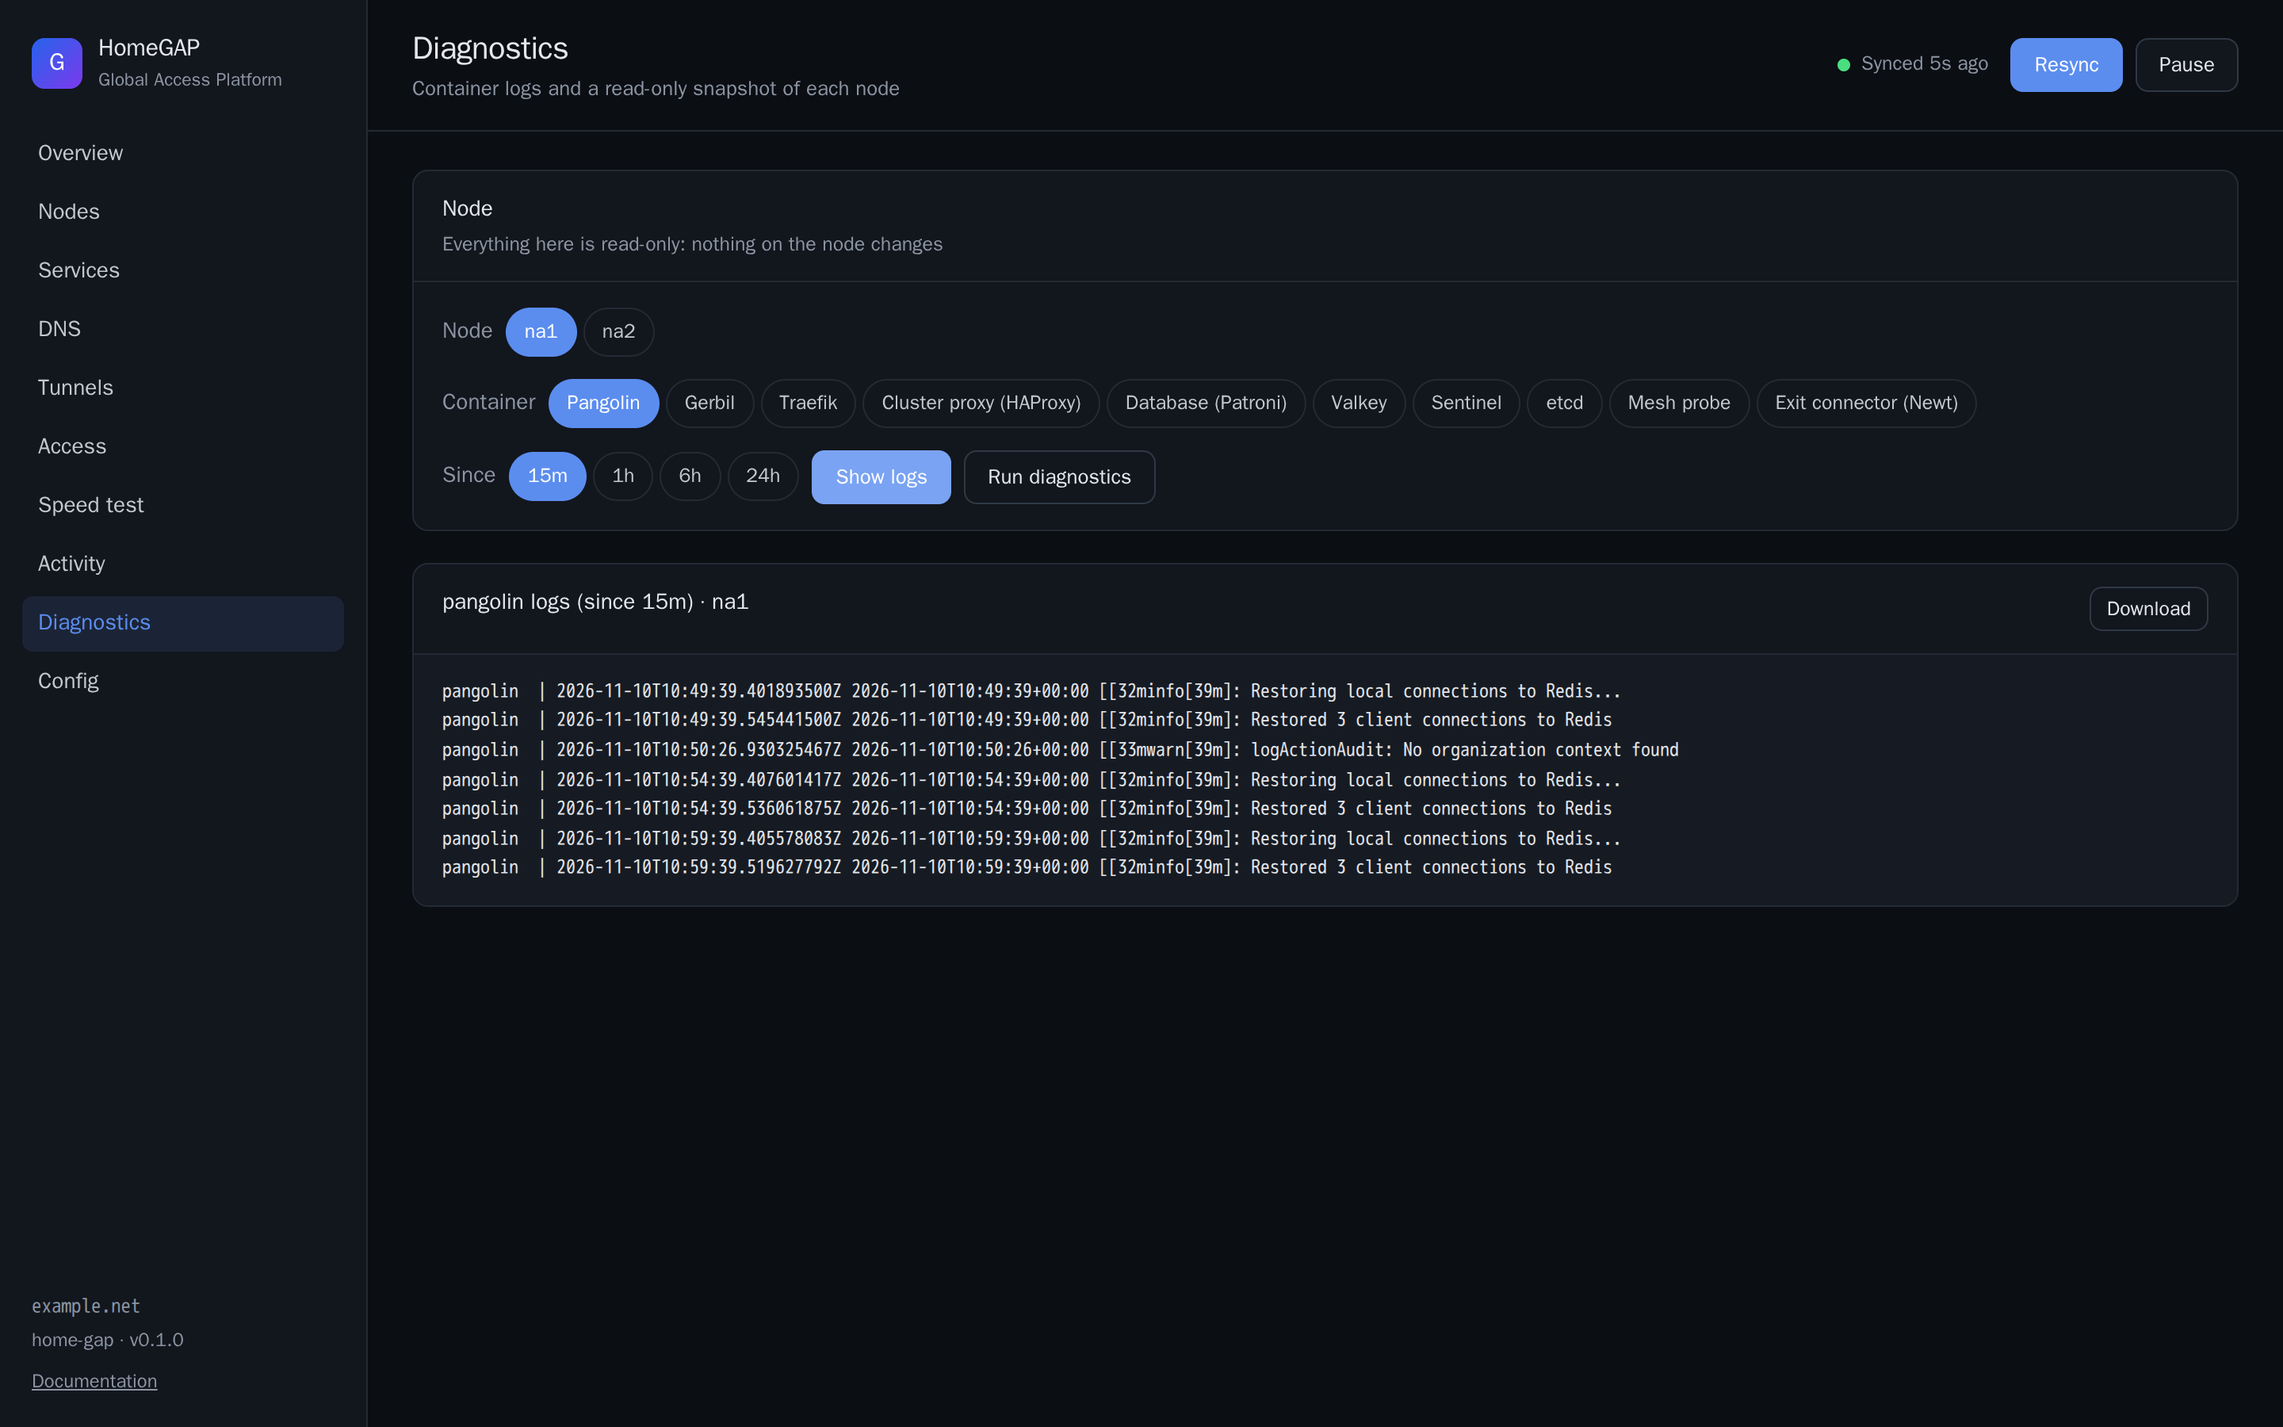
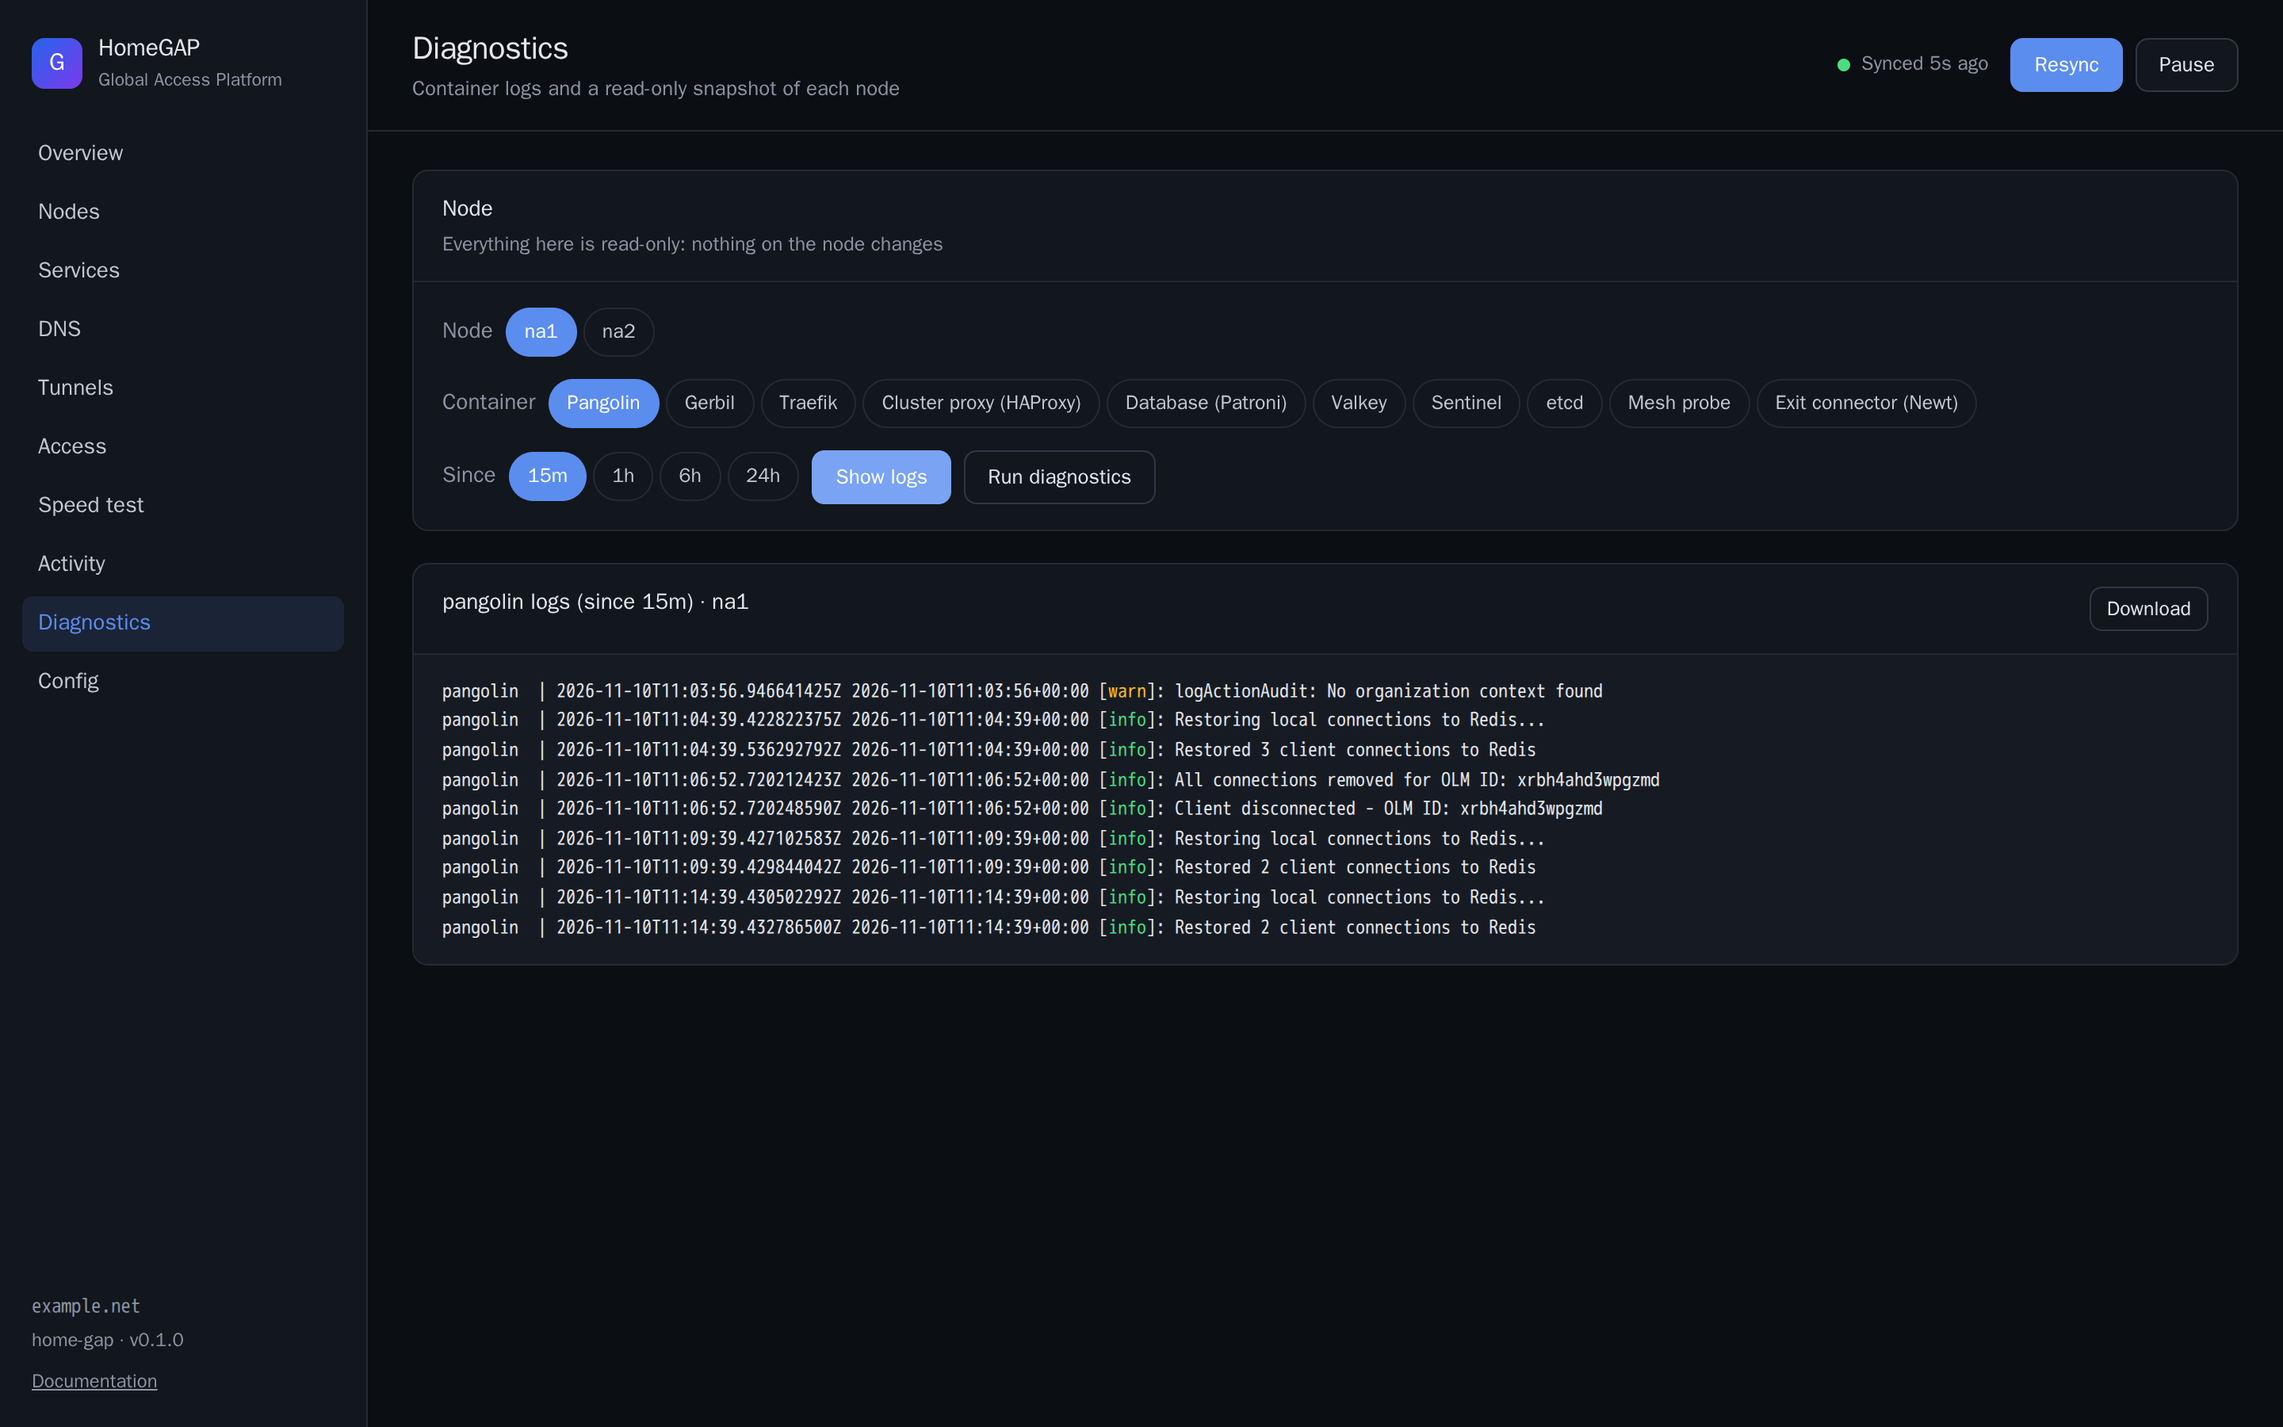
Show the terminal colours in node container logs
Container logs carry the colour codes the programs print for a terminal,
and the Diagnostics page showed them as text ([32minfo[39m). The page
now draws colours and text styles from the theme's own palette and drops
other escape sequences; Download saves plain text.

Changed region(s): [[0.1875, 0.4667, 0.7188, 0.6533], [0.4062, 0.56, 0.4375, 0.5911], [0.4062, 0.4978, 0.4375, 0.5289]]

diff --git a/presentation/src/commonMain/kotlin/homegap/presentation/diagnostics/AnsiText.kt b/presentation/src/commonMain/kotlin/homegap/presentation/diagnostics/AnsiText.kt
@@ -1,0 +1,130 @@
+package homegap.presentation.diagnostics
+
+/** A terminal colour: one of the 16 theme colours, or an exact one (256-colour cube or 24-bit). */
+sealed interface AnsiColor {
+    /** 0-7 normal, 8-15 bright; drawn with the dashboard's own palette for the theme. */
+    data class Indexed(val index: Int) : AnsiColor
+
+    data class Rgb(val r: Int, val g: Int, val b: Int) : AnsiColor {
+        val css: String get() = "rgb($r, $g, $b)"
+    }
+}
+
+/** A run of text with the terminal style in effect for it. */
+data class StyledRun(
+    val text: String,
+    val fg: AnsiColor? = null,
+    val bg: AnsiColor? = null,
+    val bold: Boolean = false,
+    val dim: Boolean = false,
+    val italic: Boolean = false,
+    val underline: Boolean = false,
+) {
+    val plain: Boolean get() = fg == null && bg == null && !bold && !dim && !italic && !underline
+}
+
+/**
+ * Container logs carry the colours the programs print for a terminal (ANSI escape sequences).
+ * [parse] turns them into styled runs for the dashboard; [plain] drops them, for downloads. Only
+ * colours and text styles (SGR) are kept: cursor moves, titles and other sequences mean nothing in
+ * a page and are dropped, as are other control characters.
+ */
+object AnsiText {
+    private const val ESC = '\u001B'
+
+    fun plain(text: String): String = parse(text).joinToString("") { it.text }
+
+    fun parse(text: String): List<StyledRun> {
+        val runs = mutableListOf<StyledRun>()
+        var style = StyledRun("")
+        val buf = StringBuilder()
+        fun flush() {
+            if (buf.isEmpty()) return
+            val run = style.copy(text = buf.toString())
+            val last = runs.lastOrNull()
+            if (last != null && last.copy(text = "") == style) runs[runs.size - 1] = last.copy(text = last.text + run.text) else runs += run
+            buf.clear()
+        }
+
+        var i = 0
+        while (i < text.length) {
+            val c = text[i]
+            when {
+                c == ESC && i + 1 < text.length && text[i + 1] == '[' -> {
+                    // CSI: parameters and intermediates, then one final byte (@ to ~).
+                    var j = i + 2
+                    while (j < text.length && text[j] in ' '..'?') j++
+                    if (j >= text.length) { i = text.length; continue }
+                    if (text[j] == 'm') {
+                        flush()
+                        style = sgr(style, text.substring(i + 2, j))
+                    }
+                    i = j + 1
+                }
+                c == ESC && i + 1 < text.length && text[i + 1] == ']' -> {
+                    // OSC (titles, links): up to BEL or ESC \.
+                    var j = i + 2
+                    while (j < text.length && text[j] != '\u0007' && !(text[j] == ESC && j + 1 < text.length && text[j + 1] == '\\')) j++
+                    i = if (j < text.length && text[j] == ESC) j + 2 else j + 1
+                }
+                c == ESC -> i += 2 // any other escape: ESC and one character
+                c == '\n' || c == '\t' -> { buf.append(c); i++ }
+                c < ' ' || c == '\u007F' -> i++ // other control characters (\r, bells, ...)
+                else -> { buf.append(c); i++ }
+            }
+        }
+        flush()
+        return runs
+    }
+
+    /** Applies one SGR sequence (the parameters between `ESC [` and `m`). */
+    private fun sgr(from: StyledRun, params: String): StyledRun {
+        val codes = if (params.isBlank()) listOf(0) else params.split(';', ':').map { it.toIntOrNull() ?: 0 }
+        var s = from
+        var k = 0
+        while (k < codes.size) {
+            when (val code = codes[k]) {
+                0 -> s = StyledRun("")
+                1 -> s = s.copy(bold = true)
+                2 -> s = s.copy(dim = true)
+                3 -> s = s.copy(italic = true)
+                4 -> s = s.copy(underline = true)
+                22 -> s = s.copy(bold = false, dim = false)
+                23 -> s = s.copy(italic = false)
+                24 -> s = s.copy(underline = false)
+                in 30..37 -> s = s.copy(fg = AnsiColor.Indexed(code - 30))
+                in 90..97 -> s = s.copy(fg = AnsiColor.Indexed(code - 90 + 8))
+                39 -> s = s.copy(fg = null)
+                in 40..47 -> s = s.copy(bg = AnsiColor.Indexed(code - 40))
+                in 100..107 -> s = s.copy(bg = AnsiColor.Indexed(code - 100 + 8))
+                49 -> s = s.copy(bg = null)
+                38, 48 -> {
+                    // 38;5;n or 38;2;r;g;b (and 48 for the background).
+                    val (color, used) = extended(codes, k + 1)
+                    s = if (code == 38) s.copy(fg = color) else s.copy(bg = color)
+                    k += used
+                }
+            }
+            k++
+        }
+        return s
+    }
+
+    private fun extended(codes: List<Int>, at: Int): Pair<AnsiColor?, Int> = when (codes.getOrNull(at)) {
+        5 -> codes.getOrNull(at + 1)?.let { indexed(it) to 2 } ?: (null to 1)
+        2 -> if (at + 3 < codes.size) AnsiColor.Rgb(codes[at + 1].coerceIn(0, 255), codes[at + 2].coerceIn(0, 255), codes[at + 3].coerceIn(0, 255)) to 4 else null to codes.size - at
+        else -> null to 0
+    }
+
+    /** The xterm 256-colour palette: 16 theme colours, a 6x6x6 cube and a grey ramp. */
+    private fun indexed(n: Int): AnsiColor? = when (n) {
+        in 0..15 -> AnsiColor.Indexed(n)
+        in 16..231 -> {
+            val v = n - 16
+            fun level(x: Int) = if (x == 0) 0 else 55 + x * 40
+            AnsiColor.Rgb(level(v / 36), level(v / 6 % 6), level(v % 6))
+        }
+        in 232..255 -> (8 + (n - 232) * 10).let { AnsiColor.Rgb(it, it, it) }
+        else -> null
+    }
+}

diff --git a/web/src/jsMain/resources/styles.css b/web/src/jsMain/resources/styles.css
@@ -21,6 +21,11 @@
   --sidebar: 232px;
   --sans: "Inter", ui-sans-serif, system-ui, -apple-system, "Segoe UI", Roboto, sans-serif;
   --mono: ui-monospace, SFMono-Regular, "SF Mono", Menlo, Consolas, monospace;
+  /* Terminal colours in container logs (ANSI 0-15), readable on this theme's surfaces. */
+  --ansi-0: #1f2937;  --ansi-1: #c62828;  --ansi-2: #15803d;  --ansi-3: #a16207;
+  --ansi-4: #1d4ed8;  --ansi-5: #a21caf;  --ansi-6: #0e7490;  --ansi-7: #6b7280;
+  --ansi-8: #4b5563;  --ansi-9: #dc2626;  --ansi-10: #16a34a; --ansi-11: #ca8a04;
+  --ansi-12: #2563eb; --ansi-13: #c026d3; --ansi-14: #0891b2; --ansi-15: #374151;
   color-scheme: light;
 }
 @media (prefers-color-scheme: dark) {
@@ -42,6 +47,10 @@
     --unknown: #9ca3af; --unknown-soft: rgba(156, 163, 175, .10);
     --shadow: none;
     --shadow-lg: 0 10px 30px rgba(0, 0, 0, .5);
+    --ansi-0: #6b7280;  --ansi-1: #f87171;  --ansi-2: #4ade80;  --ansi-3: #fbbf24;
+    --ansi-4: #60a5fa;  --ansi-5: #e879f9;  --ansi-6: #22d3ee;  --ansi-7: #d1d5db;
+    --ansi-8: #9ca3af;  --ansi-9: #fca5a5;  --ansi-10: #86efac; --ansi-11: #fde68a;
+    --ansi-12: #93c5fd; --ansi-13: #f0abfc; --ansi-14: #67e8f9; --ansi-15: #f9fafb;
     color-scheme: dark;
   }
 }
@@ -260,6 +269,27 @@ table.data tr.empty:hover td { background: none; }
 .empty-state { color: var(--muted); text-align: center; padding: 28px; }
 
 pre { margin: 0; padding: 14px 18px; overflow: auto; font-family: var(--mono); font-size: 12px; line-height: 1.55; max-height: 560px; background: var(--surface-2); }
+/* Container logs: the programs' own terminal colours (see AnsiText). */
+.ansi-fg-0 { color: var(--ansi-0); } .ansi-bg-0 { background: var(--ansi-0); }
+.ansi-fg-1 { color: var(--ansi-1); } .ansi-bg-1 { background: var(--ansi-1); }
+.ansi-fg-2 { color: var(--ansi-2); } .ansi-bg-2 { background: var(--ansi-2); }
+.ansi-fg-3 { color: var(--ansi-3); } .ansi-bg-3 { background: var(--ansi-3); }
+.ansi-fg-4 { color: var(--ansi-4); } .ansi-bg-4 { background: var(--ansi-4); }
+.ansi-fg-5 { color: var(--ansi-5); } .ansi-bg-5 { background: var(--ansi-5); }
+.ansi-fg-6 { color: var(--ansi-6); } .ansi-bg-6 { background: var(--ansi-6); }
+.ansi-fg-7 { color: var(--ansi-7); } .ansi-bg-7 { background: var(--ansi-7); }
+.ansi-fg-8 { color: var(--ansi-8); } .ansi-bg-8 { background: var(--ansi-8); }
+.ansi-fg-9 { color: var(--ansi-9); } .ansi-bg-9 { background: var(--ansi-9); }
+.ansi-fg-10 { color: var(--ansi-10); } .ansi-bg-10 { background: var(--ansi-10); }
+.ansi-fg-11 { color: var(--ansi-11); } .ansi-bg-11 { background: var(--ansi-11); }
+.ansi-fg-12 { color: var(--ansi-12); } .ansi-bg-12 { background: var(--ansi-12); }
+.ansi-fg-13 { color: var(--ansi-13); } .ansi-bg-13 { background: var(--ansi-13); }
+.ansi-fg-14 { color: var(--ansi-14); } .ansi-bg-14 { background: var(--ansi-14); }
+.ansi-fg-15 { color: var(--ansi-15); } .ansi-bg-15 { background: var(--ansi-15); }
+.ansi-bold { font-weight: 600; }
+.ansi-dim { opacity: .7; }
+.ansi-italic { font-style: italic; }
+.ansi-underline { text-decoration: underline; }
 
 .toast {
   position: fixed; bottom: 20px; right: 20px; z-index: 20; max-width: 460px;

diff --git a/web/src/jsMain/kotlin/homegap/web/screens/DiagnosticsScreen.kt b/web/src/jsMain/kotlin/homegap/web/screens/DiagnosticsScreen.kt
@@ -1,6 +1,9 @@
 package homegap.web.screens
 
 import androidx.compose.runtime.Composable
+import androidx.compose.runtime.remember
+import homegap.presentation.diagnostics.AnsiColor
+import homegap.presentation.diagnostics.AnsiText
 import homegap.presentation.diagnostics.DiagnosticsScreenModel
 import homegap.web.ui.*
 import kotlinx.browser.document
@@ -9,7 +12,10 @@ import org.w3c.dom.url.URL
 import org.w3c.files.Blob
 import org.w3c.files.BlobPropertyBag
 import org.jetbrains.compose.web.dom.Div
+import org.jetbrains.compose.web.css.backgroundColor
+import org.jetbrains.compose.web.css.color
 import org.jetbrains.compose.web.dom.Pre
+import org.jetbrains.compose.web.dom.Span
 import org.jetbrains.compose.web.dom.Text
 
 @Composable
@@ -46,9 +52,35 @@ fun DiagnosticsScreen(model: DiagnosticsScreenModel) {
         Panel("Loading…") { Div({ classes("panel-body") }) { Muted("Asking the node over SSH.") } }
     } else if (output != null) {
         Panel("${output.title} · ${output.node}", actions = {
-            ActionButton("Download", small = true) { download("${output.node}-${output.title.substringBefore(' ').lowercase()}.txt", output.text) }
+            ActionButton("Download", small = true) { download("${output.node}-${output.title.substringBefore(' ').lowercase()}.txt", AnsiText.plain(output.text)) }
         }) {
-            Pre { Text(output.text) }
+            TerminalText(output.text)
+        }
+    }
+}
+
+/** Log text with the programs' own terminal colours; the text is only ever rendered as text. */
+@Composable
+private fun TerminalText(text: String) {
+    val runs = remember(text) { AnsiText.parse(text) }
+    Pre {
+        for (run in runs) {
+            if (run.plain) {
+                Text(run.text)
+                continue
+            }
+            Span({
+                (run.fg as? AnsiColor.Indexed)?.let { classes("ansi-fg-${it.index}") }
+                (run.bg as? AnsiColor.Indexed)?.let { classes("ansi-bg-${it.index}") }
+                if (run.bold) classes("ansi-bold")
+                if (run.dim) classes("ansi-dim")
+                if (run.italic) classes("ansi-italic")
+                if (run.underline) classes("ansi-underline")
+                style {
+                    (run.fg as? AnsiColor.Rgb)?.let { color(org.jetbrains.compose.web.css.Color(it.css)) }
+                    (run.bg as? AnsiColor.Rgb)?.let { backgroundColor(org.jetbrains.compose.web.css.Color(it.css)) }
+                }
+            }) { Text(run.text) }
         }
     }
 }

diff --git a/presentation/src/commonTest/kotlin/homegap/presentation/AnsiTextTest.kt b/presentation/src/commonTest/kotlin/homegap/presentation/AnsiTextTest.kt
@@ -1,0 +1,60 @@
+package homegap.presentation
+
+import homegap.presentation.diagnostics.AnsiColor
+import homegap.presentation.diagnostics.AnsiText
+import homegap.presentation.diagnostics.StyledRun
+import kotlin.test.Test
+import kotlin.test.assertEquals
+import kotlin.test.assertTrue
+
+class AnsiTextTest {
+    private val esc = "\u001B"
+
+    @Test
+    fun aPangolinLogLineKeepsItsColour() {
+        // As Pangolin prints it, inside `docker compose logs` output.
+        val line = "pangolin  | 2026-11-10T11:09:39Z [$esc[32minfo$esc[39m]: Restored 2 client connections"
+        val runs = AnsiText.parse(line)
+        assertEquals(
+            listOf(
+                StyledRun("pangolin  | 2026-11-10T11:09:39Z ["),
+                StyledRun("info", fg = AnsiColor.Indexed(2)),
+                StyledRun("]: Restored 2 client connections"),
+            ),
+            runs,
+        )
+        assertEquals("pangolin  | 2026-11-10T11:09:39Z [info]: Restored 2 client connections", AnsiText.plain(line))
+    }
+
+    @Test
+    fun stylesCombineAndReset() {
+        val runs = AnsiText.parse("$esc[1;31mERR$esc[0m ok $esc[2;4;94mx$esc[22;24my$esc[m")
+        assertEquals(StyledRun("ERR", fg = AnsiColor.Indexed(1), bold = true), runs[0])
+        assertEquals(StyledRun(" ok "), runs[1])
+        assertEquals(StyledRun("x", fg = AnsiColor.Indexed(12), dim = true, underline = true), runs[2])
+        assertEquals(StyledRun("y", fg = AnsiColor.Indexed(12)), runs[3])
+    }
+
+    @Test
+    fun extendedColours() {
+        val runs = AnsiText.parse("$esc[38;5;196ma$esc[38;2;10;20;30;48;5;3mb$esc[38;5;244mc")
+        assertEquals(AnsiColor.Rgb(255, 0, 0), runs[0].fg)
+        assertEquals(AnsiColor.Rgb(10, 20, 30), runs[1].fg)
+        assertEquals(AnsiColor.Indexed(3), runs[1].bg)
+        assertEquals(AnsiColor.Rgb(128, 128, 128), runs[2].fg)
+    }
+
+    @Test
+    fun otherSequencesAndControlsAreDropped() {
+        // A cursor move, a window title, a bell and a carriage return carry no meaning in a page.
+        val text = "a$esc[2Kb$esc]0;title\u0007c\u0007d\r\ne\tf$esc[31"
+        assertEquals("abcd\ne\tf", AnsiText.plain(text))
+        assertTrue(AnsiText.parse(text).all { it.plain })
+    }
+
+    @Test
+    fun runsOfTheSameStyleMerge() {
+        assertEquals(listOf(StyledRun("ab", fg = AnsiColor.Indexed(1))), AnsiText.parse("$esc[31ma$esc[31mb"))
+        assertEquals(emptyList(), AnsiText.parse("$esc[31m$esc[0m"))
+    }
+}
